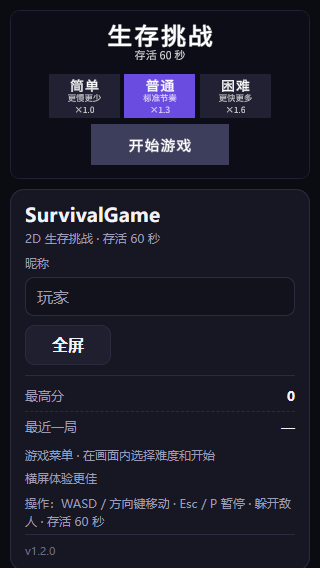
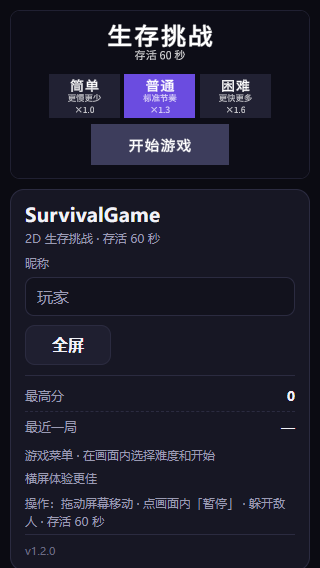
test(ui): 移动视口触摸文案 + 390 真实结算证据
- h5-shell viewports：width<900 的视口加 hasTouch，操作提示正确显示手机文案
- 390×844 跑真实 2s 短局（Unity 结算卡 + H5 数据栏），文件 h5-shell-390x844-gameover-real.png
- 其余视口 GameOver 仍为注入态，改名 *-gameover-layout-only.png
- 重跑 core + viewports，全 PASS

Changed region(s): [[0.1875, 0.868, 0.9062, 0.8979]]

diff --git a/tools/e2e/README.md b/tools/e2e/README.md
@@ -11,7 +11,7 @@
 | 脚本 | 作用 | 关键环境变量 |
 |---|---|---|
 | `smoke.mjs` | 薄壳主流程：加载 → 昵称 → 进入 → 画布菜单开局 → 暂停/继续 → 短局结算 → 再来一局/返回菜单 → 刷新保留 | `BASE_URL`、`E2E_PROXY`、`BROWSER`、`MOBILE`、`HEADED`、`READY_TIMEOUT`、`ROUND_SECONDS` |
-| `h5-shell.mjs` | H5 薄壳验收：`MODE=core`（协议/昵称/进入/难度偏好/结算/最高分/迁移/全屏）、`MODE=viewports`（6 视口） | `MODE`、`PORT`、`HEADED`、`READY_TIMEOUT`、`GAME_TIMEOUT` |
+| `h5-shell.mjs` | H5 薄壳验收：`MODE=core`（协议/昵称/进入/难度偏好/结算/最高分/迁移/全屏）、`MODE=viewports`（6 视口；移动视口 `hasTouch`，390×844 跑真实 2s 短局，其余 GameOver 为 `layout-only`） | `MODE`、`PORT`、`HEADED`、`READY_TIMEOUT`、`GAME_TIMEOUT` |
 | `standalone-menu.mjs` | 无 H5 直开 Unity 构建：菜单/难度/3-2-1/暂停/继续/重开/结算/再来一局/返回菜单 | `MODE=flow\|mobile\|viewports`、`PORT`、`HEADED`、`EVIDENCE_TAG` |
 | `standalone-focus.mjs` | 失焦暂停 + 切回保持暂停（原生 blur / visibilitychange） | `PORT`、`HEADED`、`READY_TIMEOUT` |
 | `standalone-perf.mjs` | standalone 40 只压测（headed、离屏窗口） | `CAP`、`PERF_SECONDS`、`PERF_TIMEOUT` |
